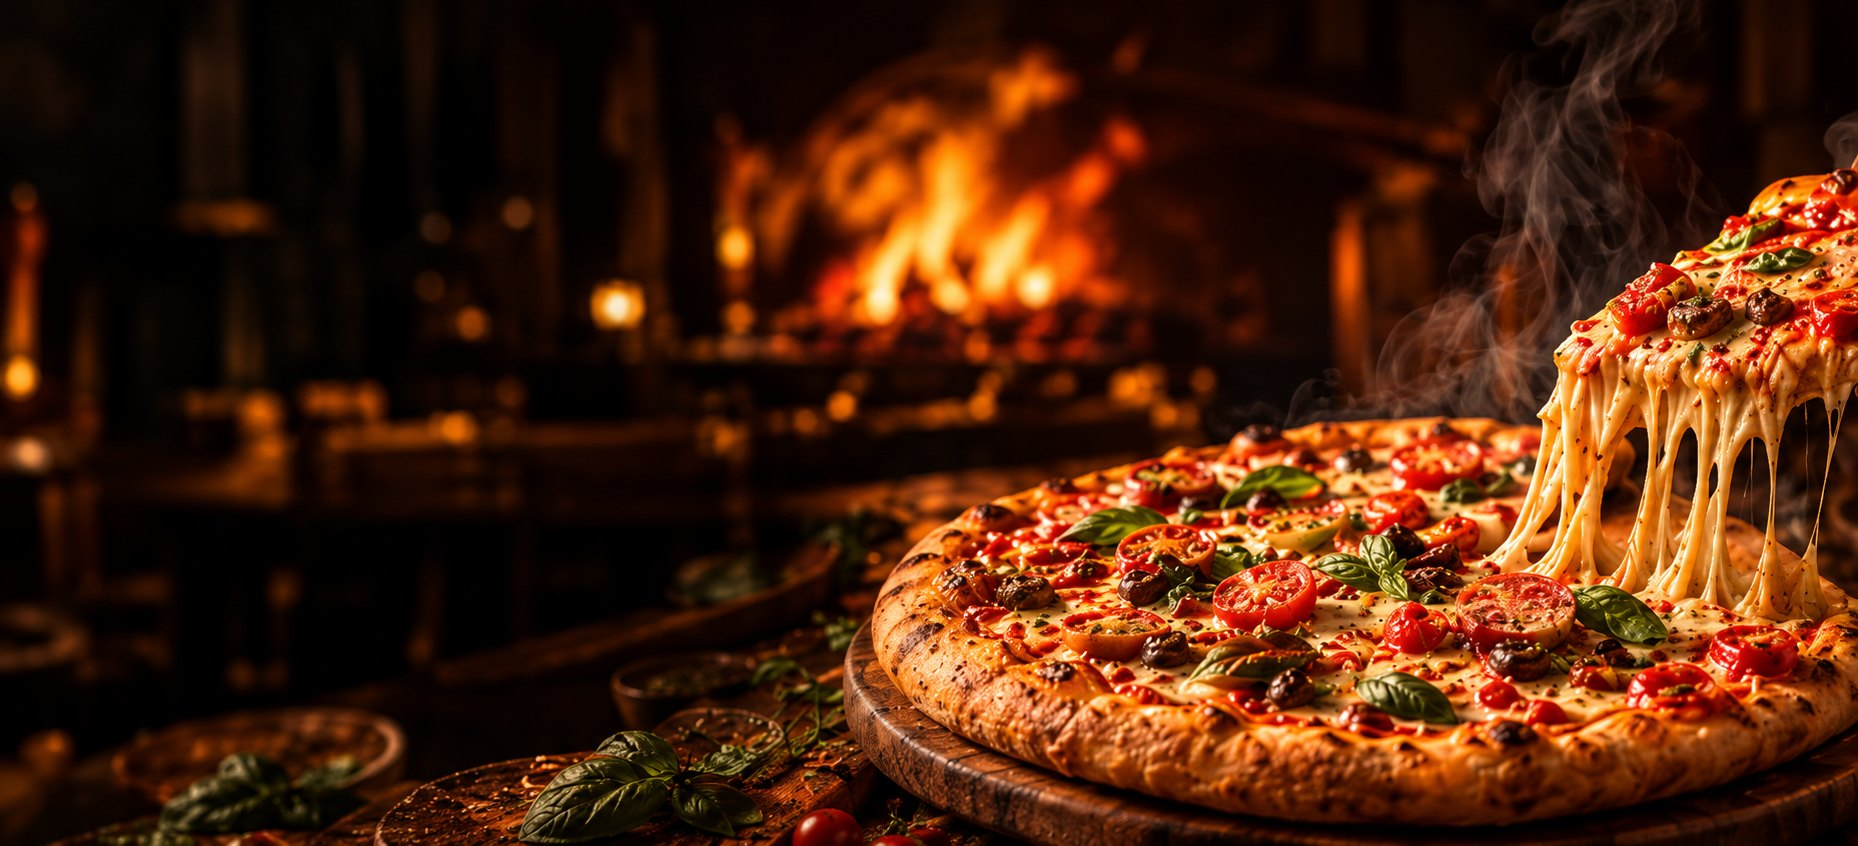
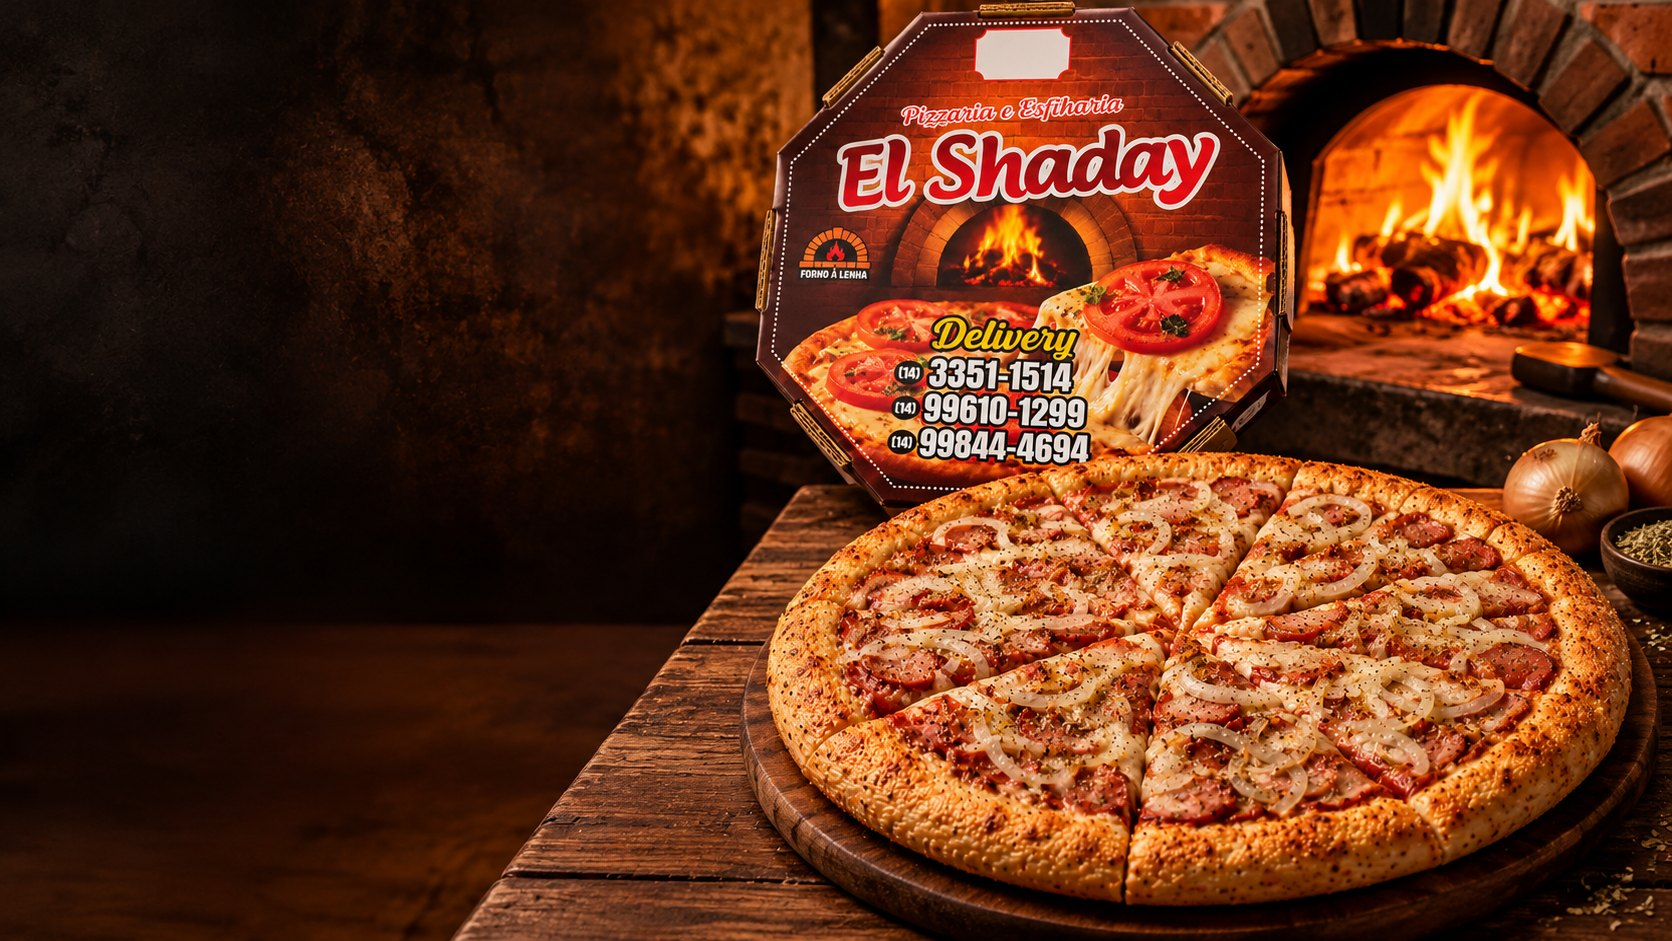
Cardápio: 12 sabores por categoria e novos fundos do topo e promoções
- Pizzas prontas agora cobrem os 12 sabores do "Monte sua pizza",
  separadas em Tradicionais (6), Especiais (4) e Doces (3)
- Fotos dos cards novos geradas a partir das fotos de sabores existentes
- Pepperoni passa para Especiais (igual ao monte sua pizza)
- hero.jpg e oferta.jpg substituídos pelas novas imagens

Claude-Session: https://claude.ai/code/session_014NesPXzGjX3fs2kZKwi3Gx

diff --git a/index.html b/index.html
@@ -37,7 +37,7 @@ svg.i{width:1.15em;height:1.15em;fill:none;stroke:currentColor;stroke-width:2;st
 .btn.sm{padding:13px 24px;font-size:11.5px}
 
 /* hero */
-.hero{position:relative;color:#fff;overflow:hidden;min-height:600px;background:linear-gradient(90deg,rgba(14,8,4,.9) 0,rgba(14,8,4,.6) 38%,rgba(14,8,4,0) 70%),linear-gradient(180deg,rgba(14,8,4,.65) 0,rgba(14,8,4,0) 22%),url(img/hero.jpg?v=4) right center/cover no-repeat #120b07}
+.hero{position:relative;color:#fff;overflow:hidden;min-height:600px;background:linear-gradient(90deg,rgba(14,8,4,.9) 0,rgba(14,8,4,.6) 38%,rgba(14,8,4,0) 70%),linear-gradient(180deg,rgba(14,8,4,.65) 0,rgba(14,8,4,0) 22%),url(img/hero.jpg?v=5) right center/cover no-repeat #120b07}
 header{position:relative;z-index:5;padding:20px 0}
 header .wrap{display:flex;align-items:center;justify-content:space-between;gap:24px}
 .logo img{height:78px;width:auto;display:block;border-radius:6px}
@@ -85,7 +85,7 @@ nav a:hover,nav a.on{color:var(--laranja);border-color:var(--laranja)}
 .card .btn{justify-content:center;padding:10px;font-family:var(--sans);font-size:13px;font-weight:500;border-radius:6px;margin-top:auto}
 
 /* oferta */
-.oferta{position:relative;overflow:hidden;color:#fff;min-height:320px;display:flex;align-items:center;background:linear-gradient(90deg,rgba(12,7,4,.85) 0,rgba(12,7,4,.35) 40%,rgba(12,7,4,0) 62%),url(img/oferta.jpg?v=4) right center/cover no-repeat #150c07}
+.oferta{position:relative;overflow:hidden;color:#fff;min-height:320px;display:flex;align-items:center;background:linear-gradient(90deg,rgba(12,7,4,.85) 0,rgba(12,7,4,.35) 40%,rgba(12,7,4,0) 62%),url(img/oferta.jpg?v=5) right center/cover no-repeat #150c07}
 .oferta .wrap{position:relative;z-index:3;padding:40px 0}
 .oferta h2{font-family:var(--serif);font-size:clamp(38px,5.4vw,62px);font-weight:700;letter-spacing:.03em;text-transform:uppercase;line-height:1.05}
 .oferta h2 em{font-style:normal;color:var(--laranja);font-weight:500;margin:0 8px}
@@ -144,8 +144,8 @@ footer{background:var(--carvao);color:#fff;padding:26px 0 24px}
   .wrap{width:calc(100% - 40px)}
   .logo img{height:58px}
   header{padding:14px 0}
-  .hero{min-height:100vh;min-height:100svh;display:flex;flex-direction:column;background:linear-gradient(180deg,rgba(14,8,4,.7) 0,rgba(14,8,4,0) 110px),linear-gradient(180deg,rgba(18,11,7,0) 30vh,#120b07 56vh),url(img/hero.jpg?v=4) 80% top/auto 62vh no-repeat #120b07;
-    background:linear-gradient(180deg,rgba(14,8,4,.7) 0,rgba(14,8,4,0) 110px),linear-gradient(180deg,rgba(18,11,7,0) 30svh,#120b07 56svh),url(img/hero.jpg?v=4) 80% top/auto 62svh no-repeat #120b07}
+  .hero{min-height:100vh;min-height:100svh;display:flex;flex-direction:column;background:linear-gradient(180deg,rgba(14,8,4,.7) 0,rgba(14,8,4,0) 110px),linear-gradient(180deg,rgba(18,11,7,0) 30vh,#120b07 56vh),url(img/hero.jpg?v=5) 80% top/auto 62vh no-repeat #120b07;
+    background:linear-gradient(180deg,rgba(14,8,4,.7) 0,rgba(14,8,4,0) 110px),linear-gradient(180deg,rgba(18,11,7,0) 30svh,#120b07 56svh),url(img/hero.jpg?v=5) 80% top/auto 62svh no-repeat #120b07}
   .hero-in{margin-top:auto;padding:40px 0 36px;text-shadow:0 1px 10px rgba(0,0,0,.65)}
   .eyebrow{font-size:10px;letter-spacing:.26em}
   .hero h1{font-size:clamp(24px,7vw,42px);line-height:1.1}
@@ -176,7 +176,7 @@ footer{background:var(--carvao);color:#fff;padding:26px 0 24px}
   .aval-top{flex-direction:column;align-items:center;gap:14px}
   .nota{padding:0}
   .nota strong{font-size:48px}
-  .oferta{min-height:0;background:linear-gradient(180deg,rgba(12,7,4,.8),rgba(12,7,4,.5)),url(img/oferta.jpg?v=4) 78% center/cover no-repeat #150c07}
+  .oferta{min-height:0;background:linear-gradient(180deg,rgba(12,7,4,.8),rgba(12,7,4,.5)),url(img/oferta.jpg?v=5) 78% center/cover no-repeat #150c07}
   .oferta .wrap{padding:34px 0 38px}
   .oferta h2{font-size:6vw;letter-spacing:.02em;white-space:nowrap}
   .oferta h2 em{margin:0 4px}
@@ -618,10 +618,30 @@ const CATS=[['tradicionais','Pizzas Tradicionais'],['especiais','Pizzas Especiai
 const PIZZAS=[
   {id:'marguerita',cat:'tradicionais',nome:'Marguerita',img:'img/marguerita.jpg?v=4',resumo:'Molho de tomate, mussarela, tomate e manjericão.',
    desc:'A clássica italiana: molho de tomate artesanal, mussarela derretida, rodelas de tomate fresco e folhas de manjericão.',precos:{M:49.90,G:64.90}},
-  {id:'pepperoni',cat:'tradicionais',nome:'Pepperoni',img:'img/pepperoni.jpg?v=4',resumo:'Molho de tomate, mussarela e pepperoni.',
+  {id:'rucula',cat:'tradicionais',nome:'Rúcula',img:'img/cardapio/rucula.jpg?v=5',resumo:'Mussarela, rúcula, tomate-cereja e parmesão.',
+   desc:'Mussarela derretida coberta com rúcula fresquinha, tomate-cereja e lascas de parmesão sobre nossa massa artesanal.',precos:{M:49.90,G:64.90}},
+  {id:'alho-oleo',cat:'tradicionais',nome:'Alho e Óleo',img:'img/cardapio/alho-oleo.jpg?v=5',resumo:'Mussarela, alho dourado, azeite e salsinha.',
+   desc:'Mussarela com alho dourado crocante, um fio de azeite e salsinha picada. Simples e cheia de sabor.',precos:{M:49.90,G:64.90}},
+  {id:'presunto',cat:'tradicionais',nome:'Presunto e Mussarela',img:'img/cardapio/presunto.jpg?v=5',resumo:'Presunto cozido e mussarela gratinada.',
+   desc:'Fatias de presunto cozido e bastante mussarela gratinada no forno à lenha.',precos:{M:49.90,G:64.90}},
+  {id:'calabresa-mussarela',cat:'tradicionais',nome:'Calabresa c/ Mussarela',img:'img/cardapio/calabresa-mussarela.jpg?v=5',resumo:'Calabresa fatiada, mussarela e orégano.',
+   desc:'Calabresa fatiada, mussarela derretida e orégano, o sabor que todo mundo pede.',precos:{M:49.90,G:64.90}},
+  {id:'calabresa-cebola',cat:'tradicionais',nome:'Calabresa c/ Cebola',img:'img/cardapio/calabresa-cebola.jpg?v=5',resumo:'Calabresa, cebola em rodelas e orégano.',
+   desc:'Calabresa fatiada com cebola em rodelas, mussarela e orégano.',precos:{M:49.90,G:64.90}},
+  {id:'pepperoni',cat:'especiais',nome:'Pepperoni',img:'img/pepperoni.jpg?v=4',resumo:'Molho de tomate, mussarela e pepperoni.',
    desc:'Molho de tomate, muita mussarela e fatias generosas de pepperoni levemente apimentado.',precos:{M:54.90,G:69.90}},
   {id:'quatro-queijos',cat:'especiais',nome:'Quatro Queijos',img:'img/quatro-queijos-2.jpg?v=4',resumo:'Mussarela, provolone, parmesão e gorgonzola.',
    desc:'Combinação cremosa de mussarela, provolone, parmesão e gorgonzola sobre nossa massa artesanal.',precos:{M:56.90,G:71.90}},
+  {id:'frango',cat:'especiais',nome:'Frango c/ Catupiry',img:'img/cardapio/frango.jpg?v=5',resumo:'Frango desfiado temperado e catupiry.',
+   desc:'Frango desfiado e bem temperado com catupiry cremoso por cima da mussarela.',precos:{M:54.90,G:69.90}},
+  {id:'strogonoff',cat:'especiais',nome:'Strogonoff de Frango',img:'img/cardapio/strogonoff.jpg?v=5',resumo:'Strogonoff cremoso de frango e mussarela.',
+   desc:'Strogonoff de frango cremoso com mussarela, uma pizza que é refeição completa.',precos:{M:54.90,G:69.90}},
+  {id:'brigadeiro',cat:'doces',nome:'Chocolate c/ Granulado',img:'img/cardapio/brigadeiro.jpg?v=5',resumo:'Chocolate ao leite e granulado de brigadeiro.',
+   desc:'Chocolate ao leite cremoso coberto com granulado, o gostinho de brigadeiro em forma de pizza.',precos:{M:49.90,G:64.90}},
+  {id:'branco-preto',cat:'doces',nome:'Chocolate Branco e Preto',img:'img/cardapio/branco-preto.jpg?v=5',resumo:'Chocolate ao leite e chocolate branco.',
+   desc:'Metade chocolate ao leite, metade chocolate branco, para quem não quer escolher só um.',precos:{M:49.90,G:64.90}},
+  {id:'kitkat',cat:'doces',nome:'Chocolate c/ Kit Kat',img:'img/cardapio/kitkat.jpg?v=5',resumo:'Chocolate ao leite e pedaços de Kit Kat.',
+   desc:'Chocolate ao leite derretido com pedaços crocantes de Kit Kat.',precos:{M:49.90,G:64.90}},
   {id:'coca-cola',cat:'bebidas',nome:'Coca-Cola',img:'img/coca-cola-2.jpg?v=4',resumo:'Refrigerante gelado, para acompanhar sua pizza.',
    desc:'Coca-Cola bem gelada, em lata ou garrafa de 2 litros.',precos:{Lata:6.00,'2L':14.00},nomes:{Lata:'Lata 350ml','2L':'Garrafa 2L'},padrao:'Lata'},
   {id:'guarana',cat:'bebidas',nome:'Guaraná',img:'img/guarana-2.jpg?v=4',resumo:'Refrigerante de guaraná gelado, bem docinho.',
